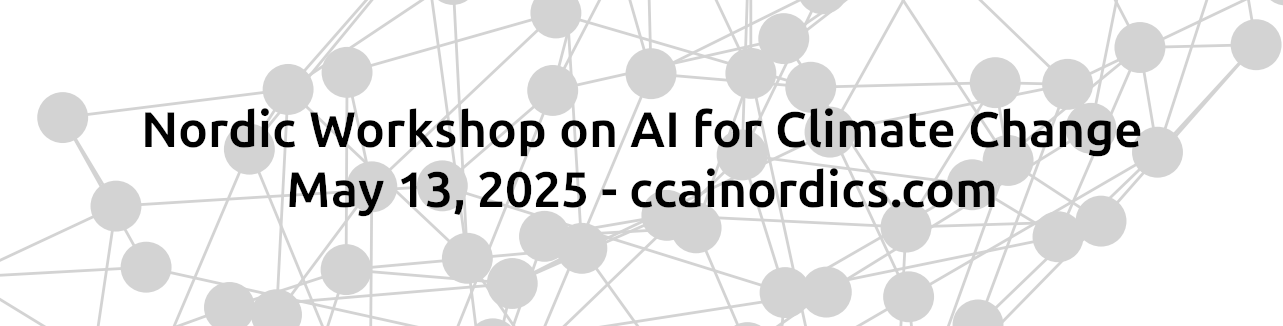
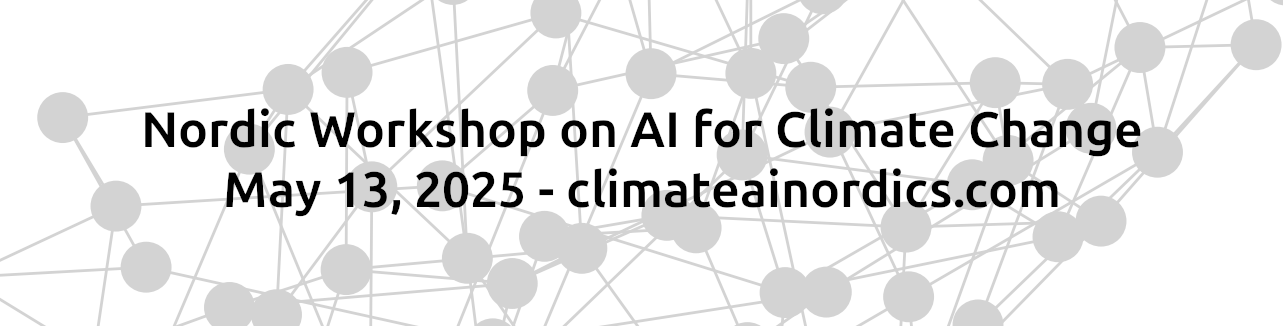
new email address. contact@climateainordics.com.

Changed region(s): [[0.1559, 0.5215, 0.8418, 0.6748]]

diff --git a/news/_posts/2024-12-16-upcoming-seminars.md b/news/_posts/2024-12-16-upcoming-seminars.md
@@ -1,0 +1,29 @@
+---
+title: ""
+shortversion: ""
+abstract: ""
+socialmedia: ""
+people:
+- Olof Mogren
+image: /images/posts/2024-12-03-featured-paper.png
+---
+
+Climate AI Nordics is thrilled to announce coming seminars in early 2025, featuring a lineup of esteemed researchers who are driving innovation in the development of artificial intelligence (AI) to address climate change. These seminars will explore AI applications for both climate change mitigation and adaptation, in alignment with our mission to foster work that address the pressing challenges of our climate emergency.
+
+The first seminar, on January 30, 2025, will feature **Amal Nammouchi**, a PhD candidate at Karlstad University and co-founder of [AfriClimate AI](https://www.africlimate.ai/). Amal’s work focuses on leveraging large language models (LLMs) and deep reinforcement learning for transparent and trustworthy decision-making. She works on multimodal machine learning for climate challenges in energy management.
+
+On February 20, 2025, **Abdulhakim Abdi** from Lund University will present his research on the application of AI and machine learning to Earth observation data. Dr. Abdi, a senior researcher at the Centre for Environmental and Climate Science, studies natural ecosystems and their response to environmental change. His seminar will provide insights into how these tools can monitor ecosystem in the current biodiversity crisis.
+
+The series continues on March 6, 2025, with a presentation by **Atakan Aral**, an Assistant Professor at the University of Vienna. Professor Aral specializes in distributed systems, edge computing, and resource allocation, with a focus on the development of AI-driven environmental monitoring systems. 
+
+*His seminar will explore how early warning systems powered by AI can detect environmental hazards such as river pollution, enabling rapid response to mitigate their impact.*
+
+On March 13, 2025, **Sherrie Wang**, Assistant Professor at MIT, will share her expertise in using AI to monitor agricultural systems. As the leader of the Earth Intelligence Lab, Dr. Wang focuses on developing computational algorithms to support sustainable development. Her talk will examine how AI can improve agricultural management and mitigate climate change, particularly in low- and middle-income regions.
+
+The next seminar, on March 27, 2025, will be delivered by **María J. Molina**, an Assistant Professor at the University of Maryland. Professor Molina’s research applies machine learning tools and numerical modeling systems to critical climate science questions, including the prediction of extreme weather events. Her presentation will delve into how AI can enhance our understanding of these events and provide actionable insights to inform both mitigation and adaptation strategies.
+
+This seminar series brings together diverse perspectives on how AI can be harnessed to address the challenges of climate change. Amal Nammouchi and Abdulhakim Abdi will highlight the importance of using AI to build resilience in vulnerable regions, ensuring societies can adapt to the effects of climate change. Sherrie Wang and María Molina will showcase AI’s role in mitigating climate change by improving climate predictions and supporting sustainable practices. Meanwhile, Atakan Aral will emphasize the technological innovations that enable real-time environmental monitoring and hazard detection.
+
+By connecting these thought leaders, Climate AI Nordics aims to foster collaboration and inspire the development of AI solutions that tackle both the causes and consequences of climate change. These seminars provide a platform for researchers, policymakers, and the public to engage with cutting-edge research and contribute to the global effort against climate change.
+
+Stay tuned for registration details and further updates on each seminar. Join us to explore how AI can help us navigate one of humanity’s greatest challenges.
